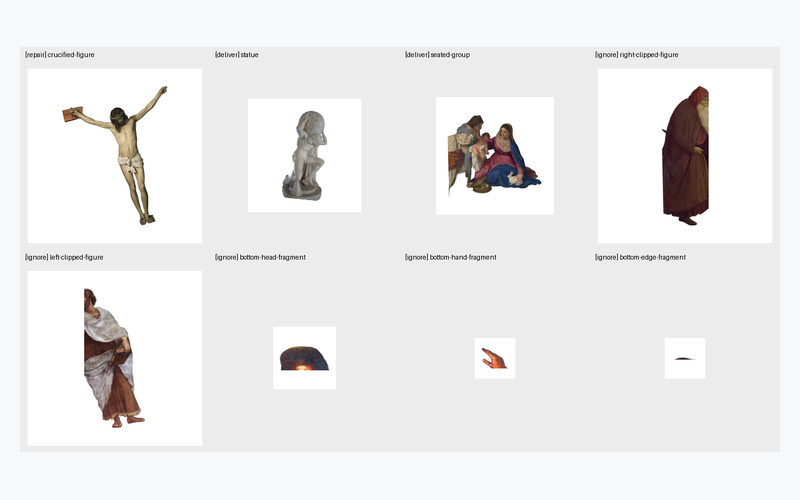
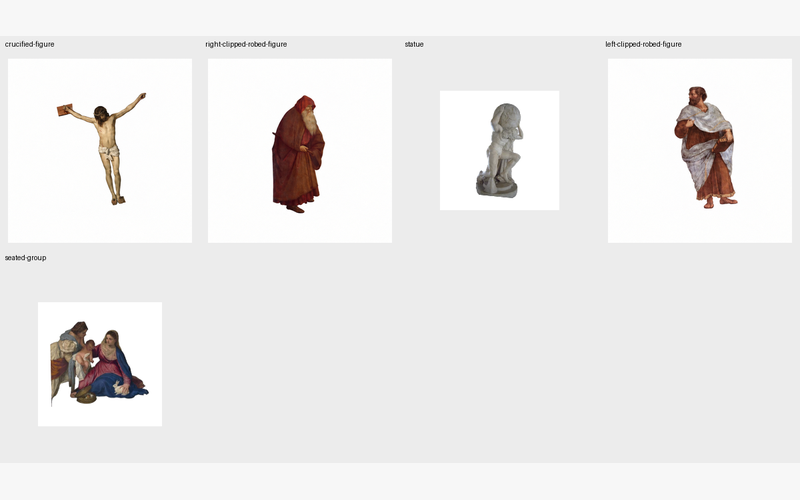
feat: repair recognizable clipped subjects

diff --git a/tests/integration/test_routes_and_repair.py b/tests/integration/test_routes_and_repair.py
@@ -36,6 +36,7 @@ def apply_repair_eligible(source: Path, root: Path) -> tuple[dict, Path]:
                     "complete": False,
                     "missing_severity": "repairable",
                     "visible_fraction_estimate": 0.75,
+                    "primary_content_recognizable": True,
                     "critical_parts_missing": [],
                     "identity_confidence": "high",
                     "recommended_action": "repair",
@@ -125,6 +126,7 @@ class RouteAndRepairTests(unittest.TestCase):
                         "regions": [fragment["id"]],
                         "missing_severity": "severe",
                         "visible_fraction_estimate": 0.15,
+                        "primary_content_recognizable": False,
                         "critical_parts_missing": ["identity"],
                         "recommended_action": "ignore",
                         "reason": ["insufficient_identity_evidence"],
@@ -158,6 +160,7 @@ class RouteAndRepairTests(unittest.TestCase):
                 "complete": False,
                 "missing_severity": "repairable",
                 "visible_fraction_estimate": 0.8,
+                "primary_content_recognizable": True,
                 "identity_confidence": "high",
                 "recommended_action": "repair",
             }
@@ -194,6 +197,82 @@ class RouteAndRepairTests(unittest.TestCase):
                     if red > 180 and 60 < green < 190 and blue < 80
                 )
             self.assertEqual(orange_pixels, 0)
+
+    def test_repair_requires_visible_recognizable_majority(self) -> None:
+        with tempfile.TemporaryDirectory() as temporary:
+            root = Path(temporary)
+            source = root / "clipped.png"
+            image = Image.new("RGB", (220, 160), "white")
+            ImageDraw.Draw(image).rectangle((0, 30, 80, 130), fill="purple")
+            image.save(source)
+            scan = core.scan_image(source, root / "scan", "objects", None, 32, 0.0005, 1000, False)
+            region = scan["scan"]["candidate_sets"][0]["regions"][0]["id"]
+            base_assessment = {
+                "complete": False,
+                "missing_severity": "repairable",
+                "identity_confidence": "high",
+                "recommended_action": "repair",
+            }
+            for visible, recognizable, message in (
+                (0.64, True, "visible_fraction_estimate >= 0.65"),
+                (0.65, False, "primary_content_recognizable=true"),
+            ):
+                plan = {
+                    "schema_version": 3,
+                    "mode": "objects",
+                    "candidate_set": scan["scan"]["candidate_sets"][0]["id"],
+                    "expected_count": 1,
+                    "items": [
+                        {
+                            "id": "item-001",
+                            "label": "candidate",
+                            "regions": [region],
+                            "visual_assessment": {
+                                **base_assessment,
+                                "visible_fraction_estimate": visible,
+                                "primary_content_recognizable": recognizable,
+                            },
+                        }
+                    ],
+                }
+                with self.assertRaisesRegex(core.SplitError, message):
+                    core.apply_plan(source, scan["scan_path"], plan, root / f"result-{visible}-{recognizable}", False)
+
+    def test_recognizable_majority_cannot_be_silently_ignored(self) -> None:
+        with tempfile.TemporaryDirectory() as temporary:
+            root = Path(temporary)
+            source = root / "clipped.png"
+            image = Image.new("RGB", (220, 160), "white")
+            draw = ImageDraw.Draw(image)
+            draw.rectangle((0, 30, 65, 130), fill="purple")
+            draw.ellipse((125, 45, 195, 120), fill="green")
+            image.save(source)
+            scan = core.scan_image(source, root / "scan", "objects", None, 32, 0.0005, 1000, False)
+            regions = scan["scan"]["candidate_sets"][0]["regions"]
+            region = next(item for item in regions if "source_clipped" in item["flags"])["id"]
+            complete = next(item for item in regions if "source_clipped" not in item["flags"])["id"]
+            plan = {
+                "schema_version": 3,
+                "mode": "objects",
+                "candidate_set": scan["scan"]["candidate_sets"][0]["id"],
+                "expected_count": 1,
+                "exclude_regions": [region],
+                "exclusions": [
+                    {
+                        "id": "excluded-001",
+                        "label": "recognizable-majority",
+                        "regions": [region],
+                        "missing_severity": "repairable",
+                        "visible_fraction_estimate": 0.65,
+                        "primary_content_recognizable": True,
+                        "identity_confidence": "high",
+                        "recommended_action": "ignore",
+                    }
+                ],
+                "items": [{"id": "item-001", "label": "complete", "regions": [complete]}],
+            }
+            with self.assertRaisesRegex(core.SplitError, "must be offered for repair"):
+                core.apply_plan(source, scan["scan_path"], plan, root / "result", False)
 
     def test_touching_semantic_targets_share_region_only_for_repair(self) -> None:
         with tempfile.TemporaryDirectory() as temporary:
@@ -260,6 +339,7 @@ class RouteAndRepairTests(unittest.TestCase):
             generated.save(grid)
             ingested = ingest_repair(manifest_path, "conflict-001", grid)
             self.assertEqual(ingested["status"], "needs_review")
+            self.assertEqual(ingested["delivery"]["pending_repair_images"], [])
             final = evaluate_manifest(manifest_path, "pass")
             self.assertEqual(final["status"], "success")
             self.assertIn("reconstructed", final["items"][0]["image_path"])

diff --git a/src/ultrasplitter/core.py b/src/ultrasplitter/core.py
@@ -27,6 +27,8 @@ from typing import Any, Iterable
 
 from PIL import Image, ImageDraw, ImageFilter, ImageFont, ImageOps
 
+from .contracts import MIN_REPAIR_VISIBLE_FRACTION
+
 
 SCHEMA_VERSION = 3
 SUPPORTED_SUFFIXES = {".png", ".jpg", ".jpeg", ".webp"}
@@ -723,6 +725,19 @@ def apply_plan(
         visible = exclusion.get("visible_fraction_estimate")
         if visible is not None and (not isinstance(visible, (int, float)) or not 0 <= visible <= 1):
             raise SplitError(f"exclusion {index} visible_fraction_estimate must be between 0 and 1")
+        recognizable = exclusion.get("primary_content_recognizable")
+        if recognizable not in {None, True, False}:
+            raise SplitError(f"exclusion {index} primary_content_recognizable must be a boolean")
+        if (
+            visible is not None
+            and visible >= MIN_REPAIR_VISIBLE_FRACTION
+            and recognizable is True
+            and not exclusion.get("user_declined_repair", False)
+        ):
+            raise SplitError(
+                f"exclusion {index} retains at least {MIN_REPAIR_VISIBLE_FRACTION:.2f} of a recognizable "
+                "subject and must be offered for repair; set user_declined_repair only after explicit rejection"
+            )
 
     background_uniformity = float(candidate.get("evidence", {}).get("background_uniformity", 1.0))
     should_emit_alpha = emit in {"rgba", "all"} or (
@@ -766,6 +781,22 @@ def apply_plan(
             visible = assessment.get("visible_fraction_estimate")
             if visible is not None and (not isinstance(visible, (int, float)) or not 0 <= visible <= 1):
                 raise SplitError(f"item {index} visible_fraction_estimate must be between 0 and 1")
+            recognizable = assessment.get("primary_content_recognizable")
+            if recognizable not in {None, True, False}:
+                raise SplitError(f"item {index} primary_content_recognizable must be a boolean")
+            repair_intent = action == "repair" or severity in {"minor", "repairable"}
+            if repair_intent:
+                if visible is None:
+                    raise SplitError(f"item {index} repair requires visible_fraction_estimate")
+                if visible < MIN_REPAIR_VISIBLE_FRACTION:
+                    raise SplitError(
+                        f"item {index} repair requires visible_fraction_estimate >= "
+                        f"{MIN_REPAIR_VISIBLE_FRACTION:.2f}"
+                    )
+                if recognizable is not True:
+                    raise SplitError(f"item {index} repair requires primary_content_recognizable=true")
+                if assessment.get("identity_confidence", assessment.get("confidence")) == "low":
+                    raise SplitError(f"item {index} repair requires identity confidence above low")
 
     overlap_with_outputs = sorted(set(excluded_regions) & used_regions)
     if overlap_with_outputs:

diff --git a/src/ultrasplitter/router.py b/src/ultrasplitter/router.py
@@ -6,7 +6,13 @@ import math
 from pathlib import Path
 from typing import Any
 
-from .contracts import MAX_SUBJECTS_PER_REPAIR_GRID, load_json, require_v3, write_json
+from .contracts import (
+    MAX_SUBJECTS_PER_REPAIR_GRID,
+    MIN_REPAIR_VISIBLE_FRACTION,
+    load_json,
+    require_v3,
+    write_json,
+)
 from .core import load_image, make_contact_sheet
 from .extractor import compose_source_item
 
@@ -63,11 +69,17 @@ def _repair_eligibility(plan_item: dict[str, Any], source_clipped: bool) -> tupl
     action = assessment.get("recommended_action")
     severity = assessment.get("missing_severity")
     confidence = assessment.get("identity_confidence", assessment.get("confidence"))
+    visible = assessment.get("visible_fraction_estimate")
+    recognizable = assessment.get("primary_content_recognizable")
     visibly_complete = assessment.get("complete") is True
 
     if action in {"deliver", "clean"} and visibly_complete and confidence == "high":
         return "not_required", []
     if action == "repair" or severity in {"minor", "repairable"}:
+        if visible is None or visible < MIN_REPAIR_VISIBLE_FRACTION:
+            return "needs_semantic_triage", ["below_repair_visibility_threshold"]
+        if recognizable is not True or confidence == "low":
+            return "needs_semantic_triage", ["insufficient_identity_evidence"]
         if source_clipped:
             reasons.append("source_clipped")
         return "eligible", sorted(set(reasons or ["visually_incomplete"]))

diff --git a/src/ultrasplitter/evaluator.py b/src/ultrasplitter/evaluator.py
@@ -132,6 +132,11 @@ def evaluate_manifest(manifest_path: Path, visual_verdict: str | None = None) ->
         and next(group for group in groups if group["id"] == group_id).get("state") != "ingested"
         and not attempt.get("evaluation", {}).get("passed", False)
     ]
+    manifest.setdefault("delivery", {})["pending_repair_images"] = [
+        item.get("review_image_path", item["image_path"])
+        for item in manifest.get("items", [])
+        if item.get("route") == "generated_reconstruction" and not item.get("deliverable")
+    ]
     manifest.setdefault("evaluation", {})["visual"] = visual_verdict or manifest["evaluation"].get(
         "visual", "not_run"
     )

diff --git a/src/ultrasplitter/repair.py b/src/ultrasplitter/repair.py
@@ -255,6 +255,11 @@ def ingest_repair(manifest_path: Path, group_id: str, grid_path: Path) -> dict[s
     manifest["delivery"]["alpha_images"] = [
         item["rgba_path"] for item in deliverable_items if item.get("rgba_path")
     ]
+    manifest["delivery"]["pending_repair_images"] = [
+        item.get("review_image_path", item["image_path"])
+        for item in manifest["items"]
+        if item.get("route") == "generated_reconstruction" and not item.get("deliverable")
+    ]
     manifest["deliverable_count"] = len(deliverable_items)
     make_contact_sheet(deliverable_items, Path(manifest["delivery"]["contact_sheet"]))
     write_json(manifest_path, manifest)

diff --git a/tests/unit/test_core.py b/tests/unit/test_core.py
@@ -94,6 +94,8 @@ class CoreTests(unittest.TestCase):
                         "visual_assessment": {
                             "complete": False,
                             "missing_severity": "severe",
+                            "visible_fraction_estimate": 0.2,
+                            "primary_content_recognizable": False,
                             "recommended_action": "repair",
                         },
                     }

diff --git a/src/ultrasplitter/contracts.py b/src/ultrasplitter/contracts.py
@@ -10,6 +10,7 @@ __version__ = "0.1.0"
 SCHEMA_VERSION = 3
 MAX_REPAIR_ATTEMPTS = 2
 MAX_SUBJECTS_PER_REPAIR_GRID = 6
+MIN_REPAIR_VISIBLE_FRACTION = 0.65
 
 ORIGINS = {"source_crop", "source_composite", "generated_reconstruction"}
 TERMINAL_STATUSES = {

diff --git a/README.md b/README.md
@@ -24,14 +24,14 @@ These real inputs were run through the current workflow. Each case uses one resu
 | --- | --- | --- |
 | **Uneven layout**<br>`success` · 4 subjects<br>4 source crops, reordered by the multimodal plan; no generated pixels. | [<img src="docs/assets/case-uneven-input-preview.png" alt="Uneven character turnaround input" width="320">](docs/assets/case-uneven-input.png) | [<img src="docs/assets/case-uneven-output-preview.png" alt="Four extracted character views" width="320">](docs/assets/case-uneven-output.png) |
 | **Dense asset sheet**<br>`success` after visual evaluation · 11 subjects<br>6 source crops + 5 source composites; one border-line false candidate was rejected by the plan. | [<img src="docs/assets/case-dense-input-preview.png" alt="Dense weapon asset sheet input" width="320">](docs/assets/case-dense-input.png) | [<img src="docs/assets/case-dense-output-preview.png" alt="Eleven extracted weapon assets" width="320">](docs/assets/case-dense-output.png) |
-| **Edge-clipped collage**<br>`awaiting_user_approval`<br>2 deliverable · 1 repair candidate · 5 ignored fragments. The repair reference was mask-cleaned; no generation was executed. | [<img src="docs/assets/case-clipped-input-preview.png" alt="Edge-clipped subject collage input" width="320">](docs/assets/case-clipped-input.png) | [<img src="docs/assets/case-clipped-output-preview.png" alt="Labeled deliver, repair, and ignore triage sheet" width="320">](docs/assets/case-clipped-output.png) |
+| **Edge-clipped collage**<br>`success` after approved reconstruction · 5 subjects<br>2 source composites + 3 reconstructed subjects; 3 identity-poor fragments ignored. Three repair targets were batched into one grid; the first layout failed the margin check and the second passed. | [<img src="docs/assets/case-clipped-input-preview.png" alt="Edge-clipped subject collage input" width="320">](docs/assets/case-clipped-input.png) | [<img src="docs/assets/case-clipped-output-preview.png" alt="Five delivered subjects after approved reconstruction" width="320">](docs/assets/case-clipped-output.png) |
 
 ## Practical strengths
 
 - **Content-aware, not grid-bound** — finds subject extents when positions, widths, scales, and spacing are uneven.
 - **Useful on dense sheets** — combines source crops with foreground composites when rectangular boxes overlap but pixels remain separable.
 - **Multimodal judgment at the right layer** — the host model can reject noise, group disconnected parts, name and order outputs, and assess semantic completeness without inventing pixel coordinates.
-- **Safe handling of missing content** — repairable loss stops at an explicit approval gate, while severe or identity-ambiguous fragments are recommended for exclusion instead of consuming generation calls.
+- **Safe handling of missing content** — a recognizable subject with at least 65% visibly retained is offered for approval-gated repair; low-evidence fragments are excluded instead of consuming generation calls.
 - **Source fidelity and traceability** — deterministic routes preserve original pixels; every output is linked to its route, source coordinates, evaluation, provenance, and absolute delivery path in `manifest.json`.
 - **Agent-native integration** — the CLI and Skill contract work with Codex, Claude Code, and other multimodal coding agents without coupling the core package to one generation provider.
 

diff --git a/README.zh-CN.md b/README.zh-CN.md
@@ -24,14 +24,14 @@ UltraSplitter 将分栏图、角色多视图、联系表和简单背景的主体
 | --- | --- | --- |
 | **分布不均**<br>`success` · 4 个主体<br>4 个原图裁切，由多模态规划调整输出顺序；未生成任何像素。 | [<img src="docs/assets/case-uneven-input-preview.png" alt="分布不均的角色多视图输入" width="320">](docs/assets/case-uneven-input.png) | [<img src="docs/assets/case-uneven-output-preview.png" alt="4 张角色视图拆分结果" width="320">](docs/assets/case-uneven-output.png) |
 | **数量多、排布杂**<br>视觉复核后 `success` · 11 个主体<br>6 个原图裁切 + 5 个原像素重排；规划阶段排除了 1 条边界线伪候选。 | [<img src="docs/assets/case-dense-input-preview.png" alt="高密度武器素材输入" width="320">](docs/assets/case-dense-input.png) | [<img src="docs/assets/case-dense-output-preview.png" alt="11 件武器拆分结果" width="320">](docs/assets/case-dense-output.png) |
-| **边缘截断**<br>`awaiting_user_approval`<br>2 个可交付 · 1 个建议修复 · 5 个建议忽略。修复参考已先用掩码清除无关主体；未执行图片生成。 | [<img src="docs/assets/case-clipped-input-preview.png" alt="主体被画面边缘截断的输入" width="320">](docs/assets/case-clipped-input.png) | [<img src="docs/assets/case-clipped-output-preview.png" alt="标记可交付、待修复和建议忽略的分诊表" width="320">](docs/assets/case-clipped-output.png) |
+| **边缘截断**<br>批准补全后 `success` · 5 个主体<br>2 个原像素重排 + 3 个生成式重建；3 个身份信息不足的碎片被忽略。三个修复目标合并为一次宫格任务；第一轮因留白不足失败，第二轮通过。 | [<img src="docs/assets/case-clipped-input-preview.png" alt="主体被画面边缘截断的输入" width="320">](docs/assets/case-clipped-input.png) | [<img src="docs/assets/case-clipped-output-preview.png" alt="批准补全后交付的 5 个主体" width="320">](docs/assets/case-clipped-output.png) |
 
 ## 能力优势
 
 - **不依赖均匀宫格**——主体的位置、宽度、大小和间距不一致时，仍按内容边界定位。
 - **适用于高密度素材图**——矩形框互相重叠但前景像素可分时，组合使用原图裁切与原像素重排。
 - **让多模态模型只做关键判断**——宿主模型负责排除噪声、组合断开部件、命名排序和判断语义完整性，不让模型凭空填写像素坐标。
-- **缺失内容不会静默放行**——可修复缺失停在明确的用户批准关口；严重缺失或身份不明的碎片建议排除，不浪费生成调用。
+- **缺失内容不会静默放行**——主体可见部分达到 65% 且主要内容可识别时，必须向用户推荐审批后补全；身份信息不足的碎片才建议排除，避免浪费生成调用。
 - **保真且可追溯**——确定性路径保留原始像素；`manifest.json` 记录每张图的路由、源图坐标、评估、来源和绝对访问路径。
 - **面向 Agent 集成**——CLI 与 Skill 契约可被 Codex、Claude Code 和其他多模态编码 Agent 调用，核心包不绑定单一图片生成供应商。
 

diff --git a/skills/splitting-image-grids-by-content/SKILL.md b/skills/splitting-image-grids-by-content/SKILL.md
@@ -11,7 +11,7 @@ Use the host model for semantic judgment and UltraSplitter for exact source-pixe
 
 1. Infer `panels` for framed grids/turnarounds and `objects` for separated subjects on a simple background.
 2. Run `ultrasplit scan`, inspect the numbered preview, and write a plan using exact region IDs.
-3. For every clipped, contaminated, touching, or ambiguous candidate, add `visual_assessment` and choose `deliver`, `clean`, or `repair`. Put severe fragments or identity-ambiguous remnants in `exclude_regions` plus structured `exclusions` with `recommended_action: ignore`.
+3. For every clipped, contaminated, touching, or ambiguous candidate, add `visual_assessment` and choose `deliver`, `clean`, or `repair`. A clipped subject with `visible_fraction_estimate >= 0.65`, recognizable primary content, and identity confidence above `low` must be offered for repair instead of silently ignored. Put lower-visibility fragments or identity-ambiguous remnants in `exclude_regions` plus structured `exclusions` with `recommended_action: ignore`.
 4. Run `ultrasplit apply`, then inspect the source and `review/triage-sheet.png`.
 5. Treat only `delivery.images` and `review/contact-sheet.png` as deliverable. Repair and ignored previews are diagnostic evidence.
 6. Accept `source_crop` and `source_composite` only when the requested subjects are complete and unpolluted. If status is `needs_user_decision`, finish semantic triage before preparing repair.
@@ -39,6 +39,6 @@ Use `ultrasplit` directly after `python -m pip install -e .`.
 - Simple foreground masks are not semantic instance segmentation.
 - bbox overlap alone never authorizes generated reconstruction.
 - Source clipping, occlusion, or shared semantic ownership requires repair or review.
-- Edge contact alone does not prove that reconstruction is appropriate. Severe loss, missing identity anchors, and isolated fragments should default to `ignore`, not generation.
+- Edge contact alone does not prove that reconstruction is appropriate. The 0.65 visibility threshold is a repair eligibility floor, not a semantic score: the primary content must still be recognizable. Lower-visibility loss, missing identity anchors, and isolated fragments should default to `ignore`, not generation.
 - Never call an image generator before showing the bounded request and receiving user approval.
 - An unverified or exhausted result is not success.

diff --git a/skills/splitting-image-grids-by-content/references/plan-schema.md b/skills/splitting-image-grids-by-content/references/plan-schema.md
@@ -18,6 +18,7 @@ Plans select exact scan candidate IDs and may attach visible semantic evidence:
       "regions": ["cc-009"],
       "missing_severity": "severe",
       "visible_fraction_estimate": 0.1,
+      "primary_content_recognizable": false,
       "critical_parts_missing": ["identity"],
       "identity_confidence": "low",
       "recommended_action": "ignore",
@@ -36,6 +37,7 @@ Plans select exact scan candidate IDs and may attach visible semantic evidence:
         "semantic_subject_count": 1,
         "missing_severity": "none",
         "visible_fraction_estimate": 1.0,
+        "primary_content_recognizable": true,
         "critical_parts_missing": [],
         "identity_confidence": "high",
         "recommended_action": "deliver"
@@ -51,7 +53,8 @@ Plans select exact scan candidate IDs and may attach visible semantic evidence:
 - `padding` defaults to `0` for panels and `0.03` for objects.
 - `emit` is `auto`, `crop`, `rgba`, or `all`.
 - `visual_assessment` is required for clipped, contaminated, touching, or ambiguous candidates. `recommended_action` is `deliver`, `clean`, or `repair`; `missing_severity` is `none`, `minor`, or `repairable` for retained items.
-- `visible_fraction_estimate` is advisory. Do not use area alone: missing identity-defining structure can make an otherwise large fragment unsuitable for reconstruction.
+- A repair item requires `visible_fraction_estimate >= 0.65`, `primary_content_recognizable: true`, and identity confidence above `low`. The fraction is a gate, not an automatic semantic decision: missing identity-defining structure can still make a large fragment unsuitable for reconstruction.
+- A recognizable candidate at or above 0.65 must be offered for repair rather than silently ignored. It may be excluded only after explicit rejection, recorded as `user_declined_repair: true`.
 - Severely incomplete or identity-ambiguous candidates must not appear in `items`. Put their region IDs in `exclude_regions` and describe them in `exclusions` with `recommended_action: ignore` and `missing_severity: severe`.
 - Use `allow_shared_regions_for_repair: true` only when multiple semantic subjects genuinely occupy the same connected component. Every item sharing that region must be marked for generated repair.
 - Regions may otherwise appear in only one item. Explicit noise, captions, or dividers belong in `exclude_regions`.

diff --git a/ARCHITECTURE.md b/ARCHITECTURE.md
@@ -29,9 +29,9 @@ Panel candidates come from continuous divider/frame evidence. Object candidates 
 
 ### Plan
 
-The host chooses a candidate set and groups stable region IDs into semantic items. Every clipped, contaminated, touching, or ambiguous candidate requires a `visual_assessment`. The host classifies it as `deliver`, `clean`, `repair`, or `ignore` and records visible completeness, missing critical parts, identity confidence, and an advisory visible-fraction estimate.
+The host chooses a candidate set and groups stable region IDs into semantic items. Every clipped, contaminated, touching, or ambiguous candidate requires a `visual_assessment`. The host classifies it as `deliver`, `clean`, `repair`, or `ignore` and records visible completeness, whether the primary content remains recognizable, missing critical parts, identity confidence, and a visible-fraction estimate.
 
-Severely incomplete or identity-ambiguous fragments belong in `exclude_regions` plus structured `exclusions`; they are not output items and never become repair requests. Visible area alone is insufficient: missing identity-defining structure outweighs a large remaining pixel area.
+Generated repair requires all three gates: at least `0.65` of the subject is visibly retained, the primary content remains recognizable, and identity confidence is above `low`. A recognizable majority cannot be silently ignored; it is offered for approval-gated repair. Explicit user rejection may be recorded with `user_declined_repair: true`. Severely incomplete or identity-ambiguous fragments belong in `exclude_regions` plus structured `exclusions`; they are not output items and never become repair requests. Visible area alone is insufficient: missing identity-defining structure outweighs a large remaining pixel area.
 
 ### Route
 
